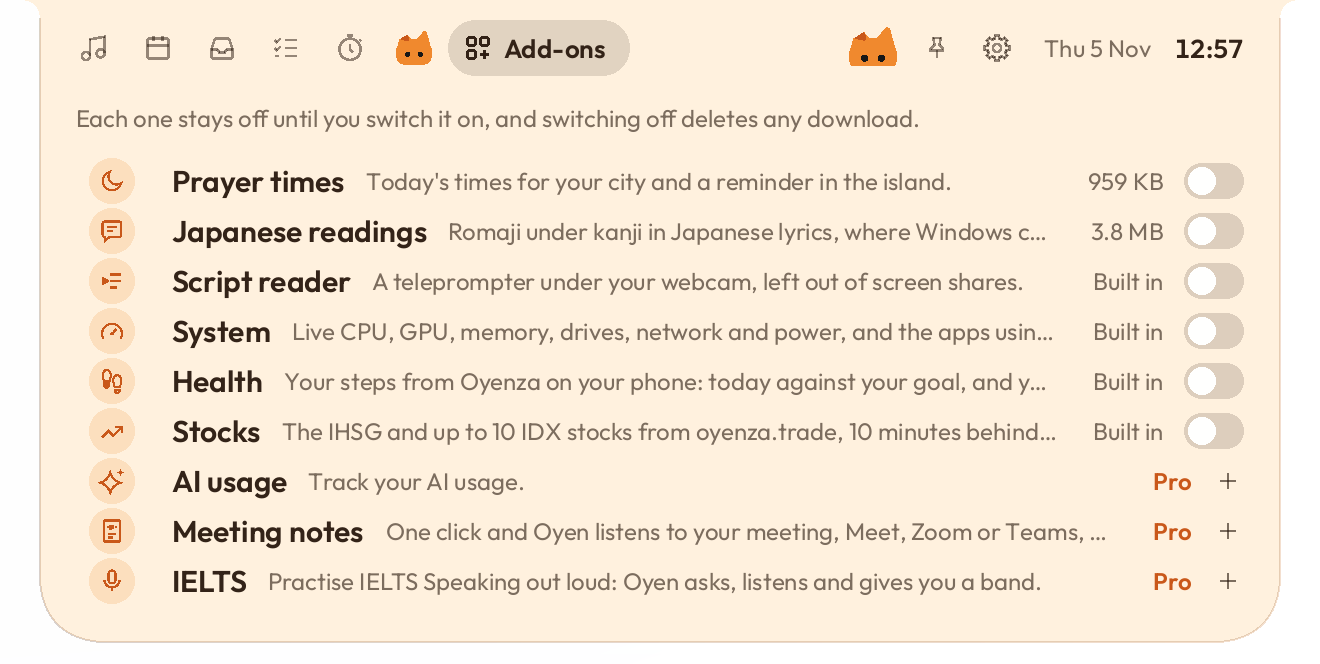
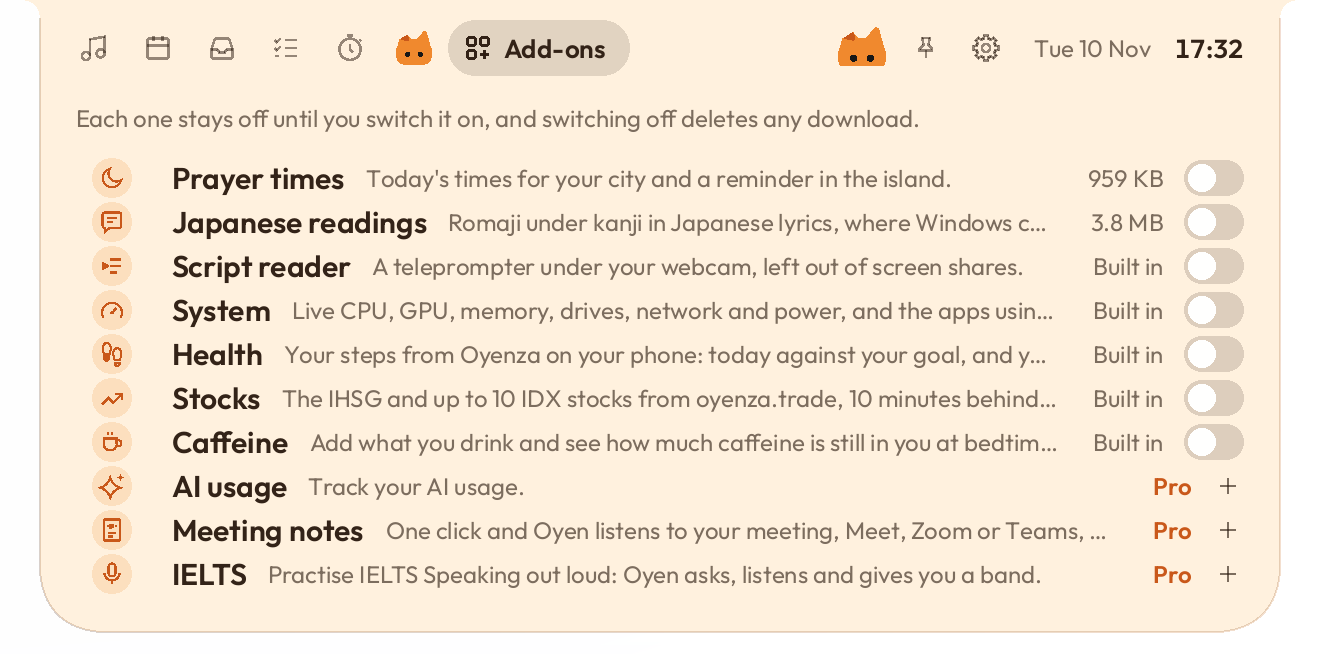
Release 0.2.30 (#220)
* Website: New in 0.2.30 with Caffeine first, and its own section

The band is "New in 0.2.30." with a Caffeine card first. Claude's new
plan name (0.2.26, the later of the band's two oldest cards) goes to the
Everything new sheet under 0.2.26 with the AI chapter's icon, and Slide
the glass ball's wide card goes last, so the five fill three columns and
two with no gap. A Caffeine section after Stocks, with its chapter and a
coffee icon in the sidebar; Caffeine in the Add-ons stats, the Windows
and Mac table and Free's list. The hero's line names 0.2.30; the
fallback version stays for the release.

The pictures are the Caffeine page's self-test shot at 200 %,
assets/shots/{classic,oyen}/page-caffeine.webp, which tools/site_shots.py
cuts from the page-caffeine scene. The store listing names Caffeine too.

* Release 0.2.30

The version in every file that carries it, the release notes, and the
website: "New in 0.2.30." with Caffeine first (Claude's plan name goes to
the Everything new sheet, under 0.2.26), Caffeine's own section, and the
Caffeine and Add-ons pictures from the self-test in Classic and Oyen.

---------

diff --git a/site/index.html b/site/index.html
@@ -750,6 +750,7 @@ dialog.more-sheet::backdrop { background: rgba(0, 0, 0, 0.42); -webkit-backdrop-
   <symbol id="i-cal" viewBox="0 0 24 24"><rect x="3.5" y="5" width="17" height="15.5" rx="2.5"/><path d="M8 3v4M16 3v4M3.5 10h17"/></symbol>
   <symbol id="i-gauge" viewBox="0 0 24 24"><path d="m12 14 4-4"/><path d="M3.8 18.5a9.5 9.5 0 1 1 16.4 0"/></symbol>
   <symbol id="i-stocks" viewBox="0 0 24 24"><path d="M3.5 17.5l5.5-5.5 4 4 7.5-7.5"/><path d="M15 8.5h5.5V14"/></symbol>
+  <symbol id="i-coffee" viewBox="0 0 24 24"><path d="M5 9h11v5a5 5 0 0 1-5 5h-1a5 5 0 0 1-5-5z"/><path d="M16 10.5h1.5a2.5 2.5 0 0 1 0 5H16"/><path d="M8.5 3.5V6M12 3.5V6"/></symbol>
   <symbol id="i-gear" viewBox="0 0 24 24"><circle cx="12" cy="12" r="3"/><path d="M19.4 15a1.65 1.65 0 0 0 .33 1.82l.06.06a2 2 0 1 1-2.83 2.83l-.06-.06a1.65 1.65 0 0 0-1.82-.33 1.65 1.65 0 0 0-1 1.51V21a2 2 0 1 1-4 0v-.09A1.65 1.65 0 0 0 9 19.4a1.65 1.65 0 0 0-1.82.33l-.06.06a2 2 0 1 1-2.83-2.83l.06-.06A1.65 1.65 0 0 0 4.68 15a1.65 1.65 0 0 0-1.51-1H3a2 2 0 1 1 0-4h.09A1.65 1.65 0 0 0 4.6 9a1.65 1.65 0 0 0-.33-1.82l-.06-.06a2 2 0 1 1 2.83-2.83l.06.06A1.65 1.65 0 0 0 9 4.68a1.65 1.65 0 0 0 1-1.51V3a2 2 0 1 1 4 0v.09a1.65 1.65 0 0 0 1 1.51 1.65 1.65 0 0 0 1.82-.33l.06-.06a2 2 0 1 1 2.83 2.83l-.06.06A1.65 1.65 0 0 0 19.4 9a1.65 1.65 0 0 0 1.51 1H21a2 2 0 1 1 0 4h-.09a1.65 1.65 0 0 0-1.51 1z"/></symbol>
   <symbol id="i-phone" viewBox="0 0 24 24"><rect x="6" y="2.5" width="12" height="19" rx="3"/><path d="M11 18.5h2"/></symbol>
   <symbol id="i-waves" viewBox="0 0 24 24"><circle cx="12" cy="12" r="2"/><path d="M8 8a5.6 5.6 0 0 0 0 8M16 8a5.6 5.6 0 0 1 0 8M5 5a10 10 0 0 0 0 14M19 5a10 10 0 0 1 0 14"/></symbol>
@@ -800,7 +801,7 @@ dialog.more-sheet::backdrop { background: rgba(0, 0, 0, 0.42); -webkit-backdrop-
     <div class="side-sec">
       <p class="side-group">Overview</p>
       <a class="side-item" href="#top" data-k="home start download hero notch island"><i class="ic" style="--c:#1d1d1f"><svg class="ico"><use href="#i-screen"/></svg></i><span>A living notch</span></a>
-      <a class="side-item" href="#new" data-k="new release 0.2.29 latest changes slide the glass ball drag hand day night switch sunset dusk diorama long pill as long as a notch lamp post bushes fence whole island matches frame cream indigo open card notices 0.2.28 prayer times kemenag muhammadiyah khgt kalender hijriah global tunggal hijri date tanggal hijriah majelis tarjih subuh 18 isbat ramadan syawal 0.2.27 diorama fifth look theme pixel art house tree cat sky day night dawn golden hour sunset sunrise moon stars glass ball resting pill see what pro brings studio pro add-ons every pro feature ai usage claude ultra 10x max 20x clearer adzan azan athan adhan prayer times sound recording antigravity agy ai tab mac top bar mydockfinder menu bar over notifications store tabs phone drop double tap zoom move the island drag along the top edge left right side browser tabs out of the way centre center mac macbook notch pill menu bar settings in the island againgear advanced settings window island closes update in version row check now settings window glides smooth motion 144 fps 120 hz promotion slide switches highlight trackpad scroll reduce motion downloader progress youtube puzzle solving meeting notes mac ielts coach speaking band downloader video sound studio pro settings window gear every setting one place sidebar light dark mode mac window title bar meeting notes record call transcript summary action items pro ai tab usage codex claude code opencode go gemini cursor copilot kimi glm minimax openrouter limits plans resets heads-up tabs hide switch off music today shelf tasks focus prayer countdown ok lyrics come back steps two hours ielts notifications whatsapp telegram mac signed developer id notarized checked by apple opens open anyway gone privacy security permissions once more right click menu stays open island stays open always looks for new versions version check now bluetooth pop-ups headphones speakers paired quiet connected disconnected check for updates every hour check now update available stays lyrics bar zen firefox stocks prices fixed getting prices mac updates install in place ihsg idx saham watchlist chart oyenza.trade today five weeks week ahead schedule month grid dots allow turn on prayer times anywhere world city mac youtube spotify browser now playing pill notch oyen oyenza tab system health add-ons clipboard history gone today your day google calendar gmail meeting join flights bills clipboard add-on touch screen tablet taps tap through notch eyes hide and seek macbook camera update available new version install now next start updater mac installer dmg window steps health oyenza sign in mac headphones full screen power island stays maximized windows sing along romaji lyrics mac prayer script reader teleprompter games power"><i class="ic" style="--c:#bf4800"><svg class="ico"><use href="#i-spark"/></svg></i><span>New in 0.2.29</span></a>
+      <a class="side-item" href="#new" data-k="new release 0.2.30 latest changes caffeine coffee kopi espresso americano latte cappuccino flat white mocha es kopi susu shots beans arabica blend robusta decaf kopi tubruk instant sachet filter cold brew tea green tea energy drink cola your own mg last call bedtime sleep reminder half-life day limit 0.2.29 slide the glass ball drag hand day night switch sunset dusk diorama long pill as long as a notch lamp post bushes fence whole island matches frame cream indigo open card notices 0.2.28 prayer times kemenag muhammadiyah khgt kalender hijriah global tunggal hijri date tanggal hijriah majelis tarjih subuh 18 isbat ramadan syawal 0.2.27 diorama fifth look theme pixel art house tree cat sky day night dawn golden hour sunset sunrise moon stars glass ball resting pill see what pro brings studio pro add-ons every pro feature ai usage claude ultra 10x max 20x clearer adzan azan athan adhan prayer times sound recording antigravity agy ai tab mac top bar mydockfinder menu bar over notifications store tabs phone drop double tap zoom move the island drag along the top edge left right side browser tabs out of the way centre center mac macbook notch pill menu bar settings in the island againgear advanced settings window island closes update in version row check now settings window glides smooth motion 144 fps 120 hz promotion slide switches highlight trackpad scroll reduce motion downloader progress youtube puzzle solving meeting notes mac ielts coach speaking band downloader video sound studio pro settings window gear every setting one place sidebar light dark mode mac window title bar meeting notes record call transcript summary action items pro ai tab usage codex claude code opencode go gemini cursor copilot kimi glm minimax openrouter limits plans resets heads-up tabs hide switch off music today shelf tasks focus prayer countdown ok lyrics come back steps two hours ielts notifications whatsapp telegram mac signed developer id notarized checked by apple opens open anyway gone privacy security permissions once more right click menu stays open island stays open always looks for new versions version check now bluetooth pop-ups headphones speakers paired quiet connected disconnected check for updates every hour check now update available stays lyrics bar zen firefox stocks prices fixed getting prices mac updates install in place ihsg idx saham watchlist chart oyenza.trade today five weeks week ahead schedule month grid dots allow turn on prayer times anywhere world city mac youtube spotify browser now playing pill notch oyen oyenza tab system health add-ons clipboard history gone today your day google calendar gmail meeting join flights bills clipboard add-on touch screen tablet taps tap through notch eyes hide and seek macbook camera update available new version install now next start updater mac installer dmg window steps health oyenza sign in mac headphones full screen power island stays maximized windows sing along romaji lyrics mac prayer script reader teleprompter games power"><i class="ic" style="--c:#bf4800"><svg class="ico"><use href="#i-spark"/></svg></i><span>New in 0.2.30</span></a>
       <a class="side-item" href="#highlights" data-k="best gallery overview"><i class="ic" style="--c:#ff9f0a"><svg class="ico"><use href="#i-spark"/></svg></i><span>Highlights</span></a>
       <a class="side-item" href="#features" data-k="rest idle music timer volume charging headphones bluetooth money clock eyes prayer countdown"><i class="ic" style="--c:#636366"><svg class="ico"><use href="#i-island"/></svg></i><span>While it rests</span></a>
     </div>
@@ -823,6 +824,7 @@ dialog.more-sheet::backdrop { background: rgba(0, 0, 0, 0.42); -webkit-backdrop-
       <a class="side-item" href="#paired-phones" data-k="paired phones pair any network mobile data share sheet"><i class="ic" style="--c:#30b0c7"><svg class="ico"><use href="#i-waves"/></svg></i><span>Paired phones</span></a>
       <a class="side-item" href="#prayer" data-k="prayer sholat salat adzan kemenag qibla kiblat jadwal islam"><i class="ic" style="--c:#5e5ce6"><svg class="ico"><use href="#i-moon"/></svg></i><span>Prayer times</span></a>
       <a class="side-item" href="#stocks" data-k="stocks ihsg idx saham shares watchlist market prices chart oyenza.trade bursa add-on new"><i class="ic" style="--c:#30d158"><svg class="ico"><use href="#i-stocks"/></svg></i><span>Stocks</span></a>
+      <a class="side-item" href="#caffeine" data-k="caffeine coffee kopi espresso americano latte cappuccino es kopi susu shots beans arabica robusta decaf tea energy drink cola mg last call bedtime sleep reminder limit add-on new"><i class="ic" style="--c:#8a5a36"><svg class="ico"><use href="#i-coffee"/></svg></i><span>Caffeine</span></a>
       <a class="side-item" href="#addons" data-k="add-ons addons download extras plugins"><i class="ic" style="--c:#ff9f0a"><svg class="ico"><use href="#i-addons"/></svg></i><span>Add-ons</span></a>
       <a class="side-item" href="#script" data-k="script reader teleprompter prompter webcam camera read talk video new"><i class="ic" style="--c:#a2845e"><svg class="ico"><use href="#i-script"/></svg></i><span>Script reader</span></a>
       <a class="side-item" href="#games" data-k="games fps gpu cpu overlay gaming frames readout peeks"><i class="ic" style="--c:#ff375f"><svg class="ico"><use href="#i-game"/></svg></i><span>Show over games</span></a>
@@ -900,9 +902,9 @@ dialog.more-sheet::backdrop { background: rgba(0, 0, 0, 0.42); -webkit-backdrop-
           <div class="hero-copy">
             <h1 class="t-hero-eyebrow">Oyenza Studio</h1>
             <p class="t-hero">A living notch.</p>
-            <a class="t-avail" href="#new">New in 0.2.29: slide Diorama's glass ball, like a day and night switch.</a>
+            <a class="t-avail" href="#new">New in 0.2.30: Caffeine. Add what you drink, and see your last call for coffee.</a>
             <div class="buybox">
-              <div><b>Free for Windows and Mac</b><span class="fine">Open source · Windows <span data-release="size">3.2&nbsp;MB</span> · Mac <span data-release="mac-size">5.9&nbsp;MB</span> · <a class="notes" data-release="notes" href="https://github.com/lucacadalora/oyenza-studio/releases/latest">What's new in <span data-release="version">0.2.29</span></a></span></div>
+              <div><b>Free for Windows and Mac</b><span class="fine">Open source · Windows <span data-release="size">3.2&nbsp;MB</span> · Mac <span data-release="mac-size">5.9&nbsp;MB</span> · <a class="notes" data-release="notes" href="https://github.com/lucacadalora/oyenza-studio/releases/latest">What's new in <span data-release="version">0.2.30</span></a></span></div>
               <a class="btn dl-primary" href="https://github.com/lucacadalora/oyenza-studio/releases/latest/download/Oyenza-Studio-Setup.exe"><span class="dl-word">Download</span><span class="send-word">Send to your computer</span></a>
             </div>
             <a class="link hero-other dl-other" data-release="mac-link" href="https://github.com/lucacadalora/oyenza-studio/releases/latest/download/Oyenza-Studio-Mac.dmg">Download for Mac</a>
@@ -922,13 +924,13 @@ dialog.more-sheet::backdrop { background: rgba(0, 0, 0, 0.42); -webkit-backdrop-
 
   <section class="sec band" id="new" aria-labelledby="new-title">
     <div class="content head rv">
-      <h2 class="t-l" id="new-title">New in 0.2.29.</h2>
+      <h2 class="t-l" id="new-title">New in 0.2.30.</h2>
       <button class="more" type="button" data-more="m-new">Everything new, release by release<i><svg class="ico"><use href="#i-plus"/></svg></i></button>
     </div>
     <div class="content news">
-      <a class="news-tile shot wide rv" href="#diorama">
-        <span class="news-visual" aria-hidden="true"><span class="dio-pair"><img src="assets/shots/diorama/morning.webp" srcset="assets/shots/diorama/morning.webp 1x, assets/shots/zoom/diorama/morning.webp 2x" alt="" width="380" height="92" loading="lazy"><span class="dio-held"><img src="assets/shots/diorama/slide.webp" srcset="assets/shots/diorama/slide.webp 1x, assets/shots/zoom/diorama/slide.webp 2x" alt="" width="380" height="92" loading="lazy"><svg class="dio-hand" viewBox="0 0 20 24"><use href="#i-hand"/></svg></span></span></span>
-        <p class="t-card">Slide the glass ball</p><p class="t-tile">Press Diorama's glass ball and slide it, like a day and night switch: the place runs on with it, through the golden hour and the sunset into the night. The pill is as long as a notch now, and the whole island wears its frame, cream by day and indigo at night.</p>
+      <a class="news-tile shot rv" href="#caffeine">
+        <span class="news-visual top left" aria-hidden="true"><img class="look-classic" src="assets/shots/classic/page-caffeine.webp" alt="" width="660" height="335" loading="lazy"><img class="look-oyen" src="assets/shots/oyen/page-caffeine.webp" alt="" width="660" height="335" loading="lazy"></span>
+        <p class="t-card">Caffeine, until bedtime</p><p class="t-tile">Add what you drink, by its shots or by the cup, and see how much caffeine is still in you, hour by hour. Last call is the latest your usual coffee can go in and be mostly gone by bedtime, and the island reminds you before it.</p>
       </a>
       <a class="news-tile shot rv" href="#prayer">
         <span class="news-visual top left" aria-hidden="true"><img class="look-classic" src="assets/shots/classic/page-prayer-muhammadiyah.webp" alt="" width="660" height="225" loading="lazy"><img class="look-oyen" src="assets/shots/oyen/page-prayer-muhammadiyah.webp" alt="" width="660" height="225" loading="lazy"></span>
@@ -942,9 +944,9 @@ dialog.more-sheet::backdrop { background: rgba(0, 0, 0, 0.42); -webkit-backdrop-
         <span class="news-visual top left" aria-hidden="true"><img class="look-classic" src="assets/shots/classic/page-addons-about.webp" alt="" width="660" height="332" loading="lazy"><img class="look-oyen" src="assets/shots/oyen/page-addons-about.webp" alt="" width="660" height="332" loading="lazy"></span>
         <p class="t-card">See what Pro brings</p><p class="t-tile">The Add-ons tab lists every Pro feature now, and a click says what it does. AI usage is part of Studio Pro from this version, next to Meeting notes, the IELTS coach and the Downloader.</p>
       </a>
-      <a class="news-tile shot rv" href="#ai">
-        <span class="news-visual top right" aria-hidden="true"><img class="look-classic" src="assets/shots/classic/page-ai.webp" alt="" width="660" height="335" loading="lazy"><img class="look-oyen" src="assets/shots/oyen/page-ai.webp" alt="" width="660" height="335" loading="lazy"></span>
-        <p class="t-card">Claude's new plan name</p><p class="t-tile">Claude's old Max 20x plan reads Ultra 10x on the AI tab now. On a Mac, the tab also shows Antigravity's 5-hour and weekly limits for each group of models. Part of Studio Pro.</p>
+      <a class="news-tile shot wide rv" href="#diorama">
+        <span class="news-visual" aria-hidden="true"><span class="dio-pair"><img src="assets/shots/diorama/morning.webp" srcset="assets/shots/diorama/morning.webp 1x, assets/shots/zoom/diorama/morning.webp 2x" alt="" width="380" height="92" loading="lazy"><span class="dio-held"><img src="assets/shots/diorama/slide.webp" srcset="assets/shots/diorama/slide.webp 1x, assets/shots/zoom/diorama/slide.webp 2x" alt="" width="380" height="92" loading="lazy"><svg class="dio-hand" viewBox="0 0 20 24"><use href="#i-hand"/></svg></span></span></span>
+        <p class="t-card">Slide the glass ball</p><p class="t-tile">Press Diorama's glass ball and slide it, like a day and night switch: the place runs on with it, through the golden hour and the sunset into the night. The pill is as long as a notch now, and the whole island wears its frame, cream by day and indigo at night.</p>
       </a>
     </div>
   </section>
@@ -1322,6 +1324,28 @@ dialog.more-sheet::backdrop { background: rgba(0, 0, 0, 0.42); -webkit-backdrop-
     </div>
   </section>
 
+  <section class="sec" id="caffeine" aria-labelledby="caffeine-title">
+    <div class="content head rv">
+      <p class="t-label new">New in 0.2.30</p>
+      <h3 class="t-l" id="caffeine-title">Caffeine, until bedtime.</h3>
+      <p class="t-intro">Add what you drink, by its shots or by the cup, and see <b>how much is still in you</b>, hour by hour. Last call is the latest your usual coffee can go in and leave at most 35&nbsp;mg at bedtime, and the island reminds you 30 minutes before it.</p>
+    </div>
+    <div class="content">
+      <div class="panel rv-zoom" data-scene="par" style="--band:28px">
+        <div class="sky-layer"></div>
+        <div class="isl">
+          <img class="look-classic" src="assets/shots/classic/page-caffeine.webp" alt="The Caffeine page: the day's drinks and caffeine against the day's limit and its last call, over a field of dots from 06:00 to 06:00 with the peak and what's left at bedtime marked and each drink a dot under it, and the day's drinks listed on the right" width="660" height="335" loading="lazy">
+          <img class="look-oyen" src="assets/shots/oyen/page-caffeine.webp" alt="The Caffeine page in the Oyen theme" width="660" height="335" loading="lazy">
+        </div>
+      </div>
+      <div class="stats">
+        <div class="stat rv"><small>A shot of arabica</small><b>75&nbsp;mg</b><span>as Starbucks publishes it. Blend 105, robusta 120, decaf 15. The shots are yours to enter.</span></div>
+        <div class="stat rv"><small>Last call leaves</small><b>35&nbsp;mg</b><span>at most at bedtime, after a 2023 review of 24 studies of caffeine and sleep.</span></div>
+        <div class="stat rv"><small>An add-on</small><b>Built&nbsp;in</b><span>Nothing to download, nothing sent. Off, there's no Caffeine tab at all.</span></div>
+      </div>
+    </div>
+  </section>
+
   <section class="sec" id="addons" aria-labelledby="addons-title">
     <div class="content split">
       <div class="head rv">
@@ -1331,13 +1355,13 @@ dialog.more-sheet::backdrop { background: rgba(0, 0, 0, 0.42); -webkit-backdrop-
         <div class="stats three">
           <div class="stat"><b>959&nbsp;KB</b><span>Prayer times</span></div>
           <div class="stat"><b>3.8&nbsp;MB</b><span>Japanese readings</span></div>
-          <div class="stat"><b>Built&nbsp;in</b><span>Script reader, System, Health and Stocks</span></div>
+          <div class="stat"><b>Built&nbsp;in</b><span>Script reader, System, Health, Stocks and Caffeine</span></div>
         </div>
       </div>
       <div class="panel rv-zoom" data-scene="par" style="--band:28px">
         <div class="sky-layer"></div>
         <div class="isl">
-          <img class="look-classic" src="assets/shots/classic/page-addons.webp" alt="The Add-ons tab, a line each: Prayer times (959 KB), Japanese readings (3.8 MB), Script reader, System, Health and Stocks (built in), each with its switch off, then AI usage, Meeting notes and IELTS, each marked Pro with a plus that says what it does" width="660" height="332" loading="lazy">
+          <img class="look-classic" src="assets/shots/classic/page-addons.webp" alt="The Add-ons tab, a line each: Prayer times (959 KB), Japanese readings (3.8 MB), Script reader, System, Health, Stocks and Caffeine (built in), each with its switch off, then AI usage, Meeting notes and IELTS, each marked Pro with a plus that says what it does" width="660" height="332" loading="lazy">
           <img class="look-oyen" src="assets/shots/oyen/page-addons.webp" alt="The Add-ons tab in the Oyen theme" width="660" height="332" loading="lazy">
         </div>
       </div>
@@ -1636,6 +1660,7 @@ dialog.more-sheet::backdrop { background: rgba(0, 0, 0, 0.42); -webkit-backdrop-
           <tr><th scope="row">Shelf, with Phone drop over the same Wi-Fi</th><td class="c yes"><svg viewBox="0 0 24 24" role="img" aria-label="Yes"><use href="#i-check"/></svg></td><td class="c yes"><svg viewBox="0 0 24 24" role="img" aria-label="Yes"><use href="#i-check"/></svg></td></tr>
           <tr><th scope="row">System page, an add-on</th><td class="c yes"><svg viewBox="0 0 24 24" role="img" aria-label="Yes"><use href="#i-check"/></svg></td><td class="c yes"><svg viewBox="0 0 24 24" role="img" aria-label="Yes"><use href="#i-check"/></svg></td></tr>
           <tr><th scope="row">Stocks, an add-on</th><td class="c yes"><svg viewBox="0 0 24 24" role="img" aria-label="Yes"><use href="#i-check"/></svg></td><td class="c yes"><svg viewBox="0 0 24 24" role="img" aria-label="Yes"><use href="#i-check"/></svg></td></tr>
+          <tr><th scope="row">Caffeine, an add-on</th><td class="c yes"><svg viewBox="0 0 24 24" role="img" aria-label="Yes"><use href="#i-check"/></svg></td><td class="c yes"><svg viewBox="0 0 24 24" role="img" aria-label="Yes"><use href="#i-check"/></svg></td></tr>
           <tr><th scope="row">Volume and charging pop-ups</th><td class="c yes"><svg viewBox="0 0 24 24" role="img" aria-label="Yes"><use href="#i-check"/></svg></td><td class="c yes"><svg viewBox="0 0 24 24" role="img" aria-label="Yes"><use href="#i-check"/></svg></td></tr>
           <tr><th scope="row">Classic, Oyen, Glass, Pill and Diorama</th><td class="c yes"><svg viewBox="0 0 24 24" role="img" aria-label="Yes"><use href="#i-check"/></svg></td><td class="c yes"><svg viewBox="0 0 24 24" role="img" aria-label="Yes"><use href="#i-check"/></svg></td></tr>
           <tr><th scope="row">Paired phones, from any network</th><td class="c yes"><svg viewBox="0 0 24 24" role="img" aria-label="Yes"><use href="#i-check"/></svg></td><td class="c no">Not yet</td></tr>
@@ -1713,7 +1738,7 @@ dialog.more-sheet::backdrop { background: rgba(0, 0, 0, 0.42); -webkit-backdrop-
         <ul class="price-list t-tile">
           <li><svg class="ico" aria-hidden="true"><use href="#i-check"/></svg><span>Music with synced lyrics, and Read along</span></li>
           <li><svg class="ico" aria-hidden="true"><use href="#i-check"/></svg><span>Focus, Tasks, the Shelf and Phone drop</span></li>
-          <li><svg class="ico" aria-hidden="true"><use href="#i-check"/></svg><span>Today, System, Prayer times and Stocks</span></li>
+          <li><svg class="ico" aria-hidden="true"><use href="#i-check"/></svg><span>Today, System, Prayer times, Stocks and Caffeine</span></li>
           <li><svg class="ico" aria-hidden="true"><use href="#i-check"/></svg><span>The Classic, Oyen, Glass, Pill and Diorama looks</span></li>
           <li><svg class="ico" aria-hidden="true"><use href="#i-check"/></svg><span>WhatsApp and Telegram on the island, on Windows <span class="soon">Soon</span></span></li>
         </ul>
@@ -2104,6 +2129,10 @@ dialog.more-sheet::backdrop { background: rgba(0, 0, 0, 0.42); -webkit-backdrop-
     <h4>New in 0.2.29</h4>
     <ul class="new-list">
       <li><i class="ic" style="--c:#5e5ce6"><svg class="ico"><use href="#i-moon"/></svg></i><span><b>Kemenag or Muhammadiyah in Advanced settings</b>Advanced settings › Prayer times has the choice the Prayer tab has: follow Kemenag or Muhammadiyah (KHGT), for the times and the Hijri dates.</span></li>
+    </ul>
+    <h4>New in 0.2.26</h4>
+    <ul class="new-list">
+      <li><i class="ic" style="--c:#00c7be"><svg class="ico"><use href="#i-meter"/></svg></i><span><b>Claude's new plan name</b>Claude's old Max 20x plan reads Ultra 10x on the AI tab. On a Mac, since 0.2.25, the tab also shows Antigravity's 5-hour and weekly limits for each group of models. Part of Studio Pro.</span></li>
     </ul>
     <h4>New in 0.2.25</h4>
     <ul class="new-list">

diff --git a/tools/site_shots.py b/tools/site_shots.py
@@ -130,6 +130,7 @@ KEEP = {
     "page-ai",
     "page-settings-tabs", "page-notes-listening",
     "page-ielts", "page-downloads", "page-addons-about",
+    "page-caffeine",
 }
 # Kept only down to this row (pixels at 200 %): the IELTS sheet shows the levels,
 # not the talk-style lines under them.

diff --git a/docs/release-notes/v0.2.30.md b/docs/release-notes/v0.2.30.md
@@ -10,9 +10,7 @@ Every number is an average for that kind of drink and for an average body, not a
 
 Your drinks stay on your computer, two weeks of them in `data.json`, and nothing is sent anywhere. Nothing runs at rest for Caffeine but its reminder, once a day while it's on. Switched off, there's no tab and no reminder.
 
-<!-- OTHER CHANGES IN 0.2.30 GO HERE, each as a paragraph that starts in bold. Delete this line once they're in, or if there are none. -->
-
-<!-- WHAT IT COSTS: "poni.exe grows by … KB" from the release build. Fill it in above, then delete this line. -->
+Caffeine makes poni.exe about 170 KB bigger (10.0 MB) and the download about 50 KB (3.3 MB).
 
 Everything new in 0.2.28 is here too: Prayer times can follow Muhammadiyah, with the KHGT Hijri date. See the [0.2.28 notes](https://github.com/lucacadalora/oyenza-studio/releases/tag/v0.2.28).
 
@@ -20,6 +18,6 @@ Everything new in 0.2.28 is here too: Prayer times can follow Muhammadiyah, with
 
 **On a Mac:** open `Oyenza-Studio-Mac.dmg`, drag Oyenza Studio into Applications and open it. macOS asks once whether to open an app downloaded from the internet: click **Open**.
 
-**Upgrading:** the island says **Update available** within the hour on 0.2.13 to 0.2.28, and within half a day on 0.2.6 to 0.2.12; **Install now** in the Update sheet installs it for you. On a Mac, a copy older than 0.2.12 downloads the DMG instead: open it and drag Oyenza Studio into Applications. If macOS doesn't let a copy replace itself, it opens the DMG for you to do the same. Either way it upgrades in place and keeps your settings, data, add-ons and Oyenza sign-in.
+**Upgrading:** the island says **Update available** within the hour on 0.2.13 to 0.2.29, and within half a day on 0.2.6 to 0.2.12; **Install now** in the Update sheet installs it for you. On a Mac, a copy older than 0.2.12 downloads the DMG instead: open it and drag Oyenza Studio into Applications. If macOS doesn't let a copy replace itself, it opens the DMG for you to do the same. Either way it upgrades in place and keeps your settings, data, add-ons and Oyenza sign-in.
 
 The Windows build isn't code-signed yet, so Windows SmartScreen may say "Windows protected your PC". Click **More info → Run anyway**.

diff --git a/docs/store/listing.md b/docs/store/listing.md
@@ -41,7 +41,7 @@ Point at the island or click it to open it, then scroll over the header to switc
 - Tasks: a tiny to-do list
 - Clipboard: recent copied text, kept in memory only
 - Today: the date and calendar, plus CPU, memory, disk and battery
-- Add-ons (the + at the end of the tabs): extra features that download only when you switch them on. The first is Prayer times: today's times for your city, from Kemenag RI in Indonesia (Umm al-Qura in Makkah, Madinah and Jeddah) and by the method each country follows elsewhere, a countdown before each prayer, and a tone or the adzan when it's time
+- Add-ons (the + at the end of the tabs): extra features that download only when you switch them on. The first is Prayer times: today's times for your city, from Kemenag RI in Indonesia (Umm al-Qura in Makkah, Madinah and Jeddah) and by the method each country follows elsewhere, a countdown before each prayer, and a tone or the adzan when it's time. Caffeine is built in, with nothing to download: add what you drink, by its shots or by the cup, and see how much caffeine is still in you hour by hour, with the day's last call for coffee and a reminder before it. Your drinks stay on your PC
 
 Native and light: no web view, no account, and no CPU use while nothing moves. Your data stays on your PC.
 
@@ -60,6 +60,7 @@ First release in the Microsoft Store.
 - A tiny to-do list
 - Clipboard history kept in memory only
 - Prayer times as an optional add-on: Kemenag RI's times for your city in Indonesia, any city's elsewhere, a countdown and the adzan
+- Caffeine as an optional add-on: add what you drink by its shots or by the cup, see how much is still in you at bedtime, and get a reminder before your last coffee
 - Phone drop: send photos and files from your phone to the Shelf, or Shelf files to your phone, over your Wi-Fi
 - Paired phones: pair a phone once, then send to the Shelf from any network
 - Volume, charging and Bluetooth headset pop-ups with battery level
